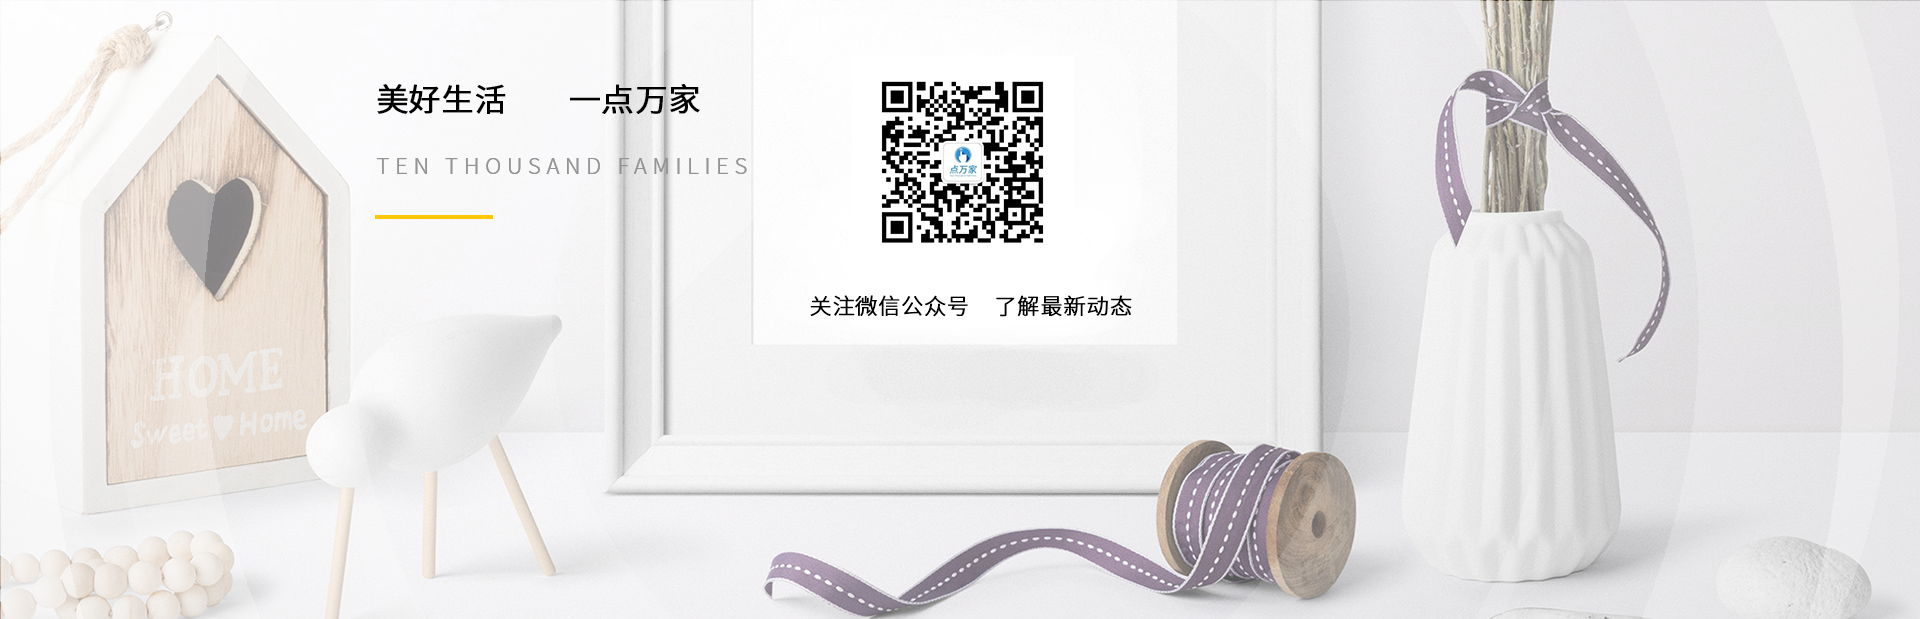
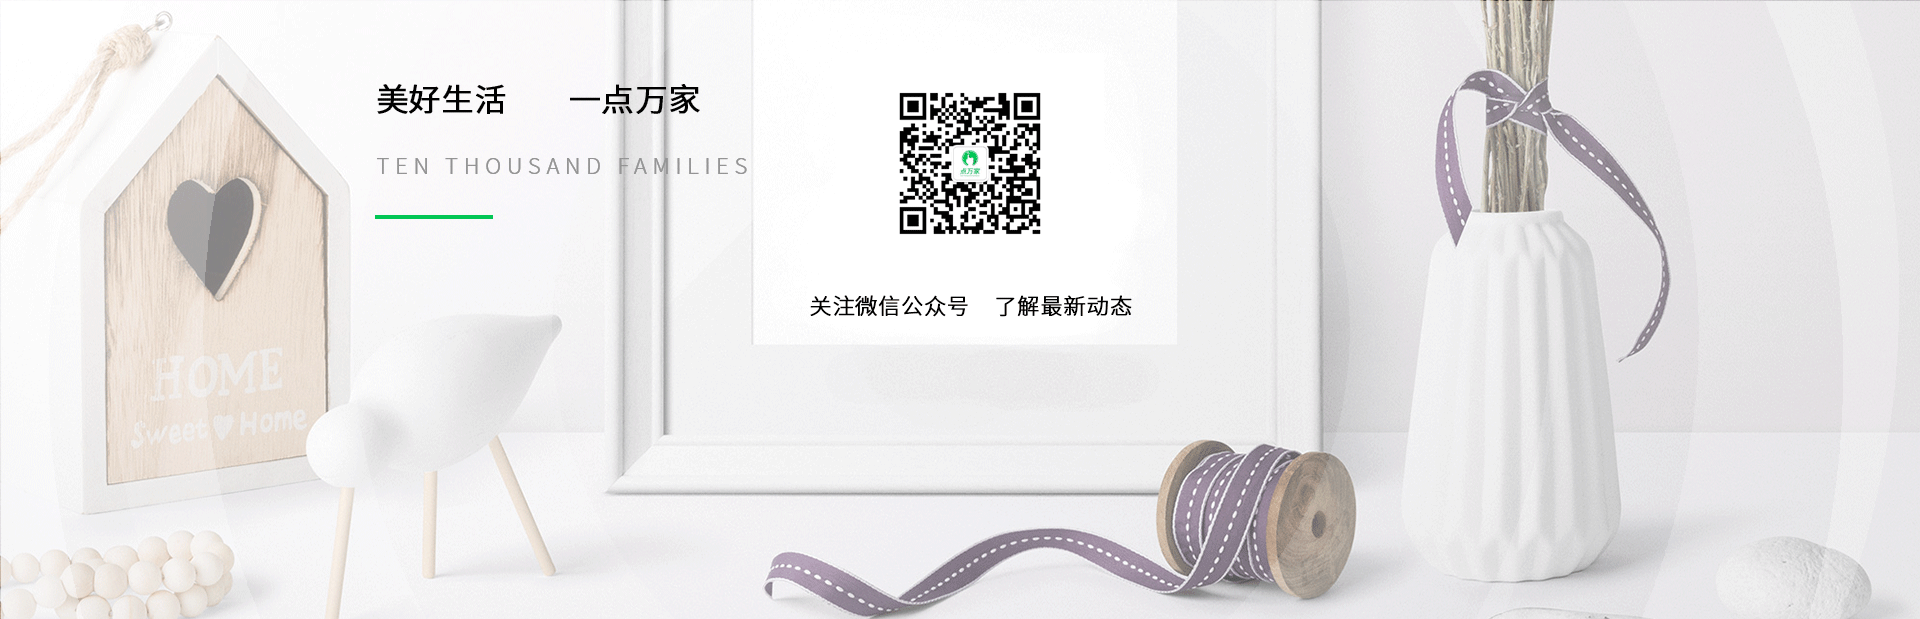
..黄色改版绿色 2019.8.31 14:53

Changed region(s): [[0.4375, 0.1228, 0.5625, 0.399], [0.1875, 0.3376, 0.25, 0.3683]]

diff --git a/src/main/resources/static/css/page.css b/src/main/resources/static/css/page.css
@@ -1,2 +1,2 @@
[2 lines of base64/hex data omitted]
 /*# sourceMappingURL=page.css.map */

diff --git a/src/main/resources/templates/page/index.html b/src/main/resources/templates/page/index.html
@@ -15,17 +15,15 @@
         <table style="width: 980px">
             <tr style="text-align:justify">
                 <td>
-                    <img th:src="@{/images/首页_12.png}" class="our_product_img">
-                    <img th:src="@{/images/ruzhu.png}" style="margin-left: 38px;margin-top: 20px" onclick="javascript:location.href='https://www.baidu.com'">
-                    <td>
-                        <img th:src="@{/images/首页_09.png}" style="margin-left: -100px">
-                    </td>
+                    <a href="javascript:void(0)"><img th:src="@{/images/首页_12.png}" class="our_product_img"></a>
+                <td>
+                    <img th:src="@{/images/首页_09.png}" style="margin-left: -100px">
+                </td>
                 </td>
                 <td>
-                    <img th:src="@{/images/首页_15.png}" class="our_product_img">
-                    <img th:src="@{/images/diancan.png}" style="margin-left: 53px;margin-top: 20px" onclick="javascript:location.href='https://www.baidu.com'">
+                    <a href="javascript:void(0)"><img th:src="@{/images/首页_15.png}" class="our_product_img"></a>
                 <td>
-                    <img th:src="@{/images/首页_17.png}" style="margin-left: -100px">
+                    <img th:src="@{/images/首页_17.png}" style="margin-left: -80px">
                 </td>
                 </td>
             </tr>
@@ -40,16 +38,16 @@
 </div>
 <div class="main_product_wrap">
     <div class="main_product_box_two">
-        <p class="our_title zdsp"></p>
-        <div class="main_dt c3sm">
-            <p class="main_dt_conment">1. 会员到店消费，享受会员折扣</p>
-        </div>
-        <div class="main_dt aml">
-            <p class="main_dt_conment">2. 邀请会员商户入驻赚钱</p>
-        </div>
-        <div class="main_dt xjd">
-            <p class="main_dt_conment">3. 会员享受双倍积分</p>
-        </div>
+        <!--<p class="our_title zdsp"></p>-->
+        <!--<div class="main_dt c3sm">-->
+            <!--<p class="main_dt_conment">1. 会员到店消费，享受会员折扣</p>-->
+        <!--</div>-->
+        <!--<div class="main_dt aml">-->
+            <!--<p class="main_dt_conment">2. 邀请会员商户入驻赚钱</p>-->
+        <!--</div>-->
+        <!--<div class="main_dt xjd">-->
+            <!--<p class="main_dt_conment">3. 会员享受双倍积分</p>-->
+        <!--</div>-->
     </div>
 </div>
 

diff --git a/src/main/resources/static/css/join.css b/src/main/resources/static/css/join.css
@@ -3346,14 +3346,14 @@ textarea.input-lg, .form-horizontal .form-group-lg textarea.form-control, .input
 
 .btn-primary {
     color: #fff;
-    background-color: #ffbc23;
-    border-color: #ffbc23
+    background-color: #01c455;
+    border-color: #01c455
 }
 
 .btn-primary:hover, .btn-primary:focus, .btn-primary:active, .btn-primary.active, .open > .btn-primary.dropdown-toggle {
     color: #fff;
-    background-color: #ff9202;
-    border-color: #ff7109
+    background-color: #00a342;
+    border-color: #00a342
 }
 
 .btn-primary:active, .btn-primary.active, .open > .btn-primary.dropdown-toggle {

diff --git a/src/main/resources/static/css/reset.css b/src/main/resources/static/css/reset.css
@@ -71,8 +71,8 @@ header{
     text-align: center;
 }
 .activi_a{
-    color:  #ffc800;
-    border-bottom: 2px solid #ffc800;
+    color: #01c455;
+    border-bottom: 2px solid #01c455;
 }
 /* banner */
 .banner_box{
@@ -105,7 +105,7 @@ footer{
   width: 100%;
   height: 415px;
   background: #ffffff url(../images/footrt_12.png) top center no-repeat;
-  background-size: auto 80%;
+  background-size: auto 100%;
 }
 .footer_box{
   width: 980px;

diff --git a/src/main/resources/static/css/index.css b/src/main/resources/static/css/index.css
@@ -57,7 +57,7 @@
     margin: 0 auto;
     padding-left: 580px;
     background: url(../images/icon_12.png) left bottom no-repeat;
-    background-size: 620px 550px;
+    background-size: 1100px 489px;
 }
 .main_dt{
     margin-bottom: 30px;
